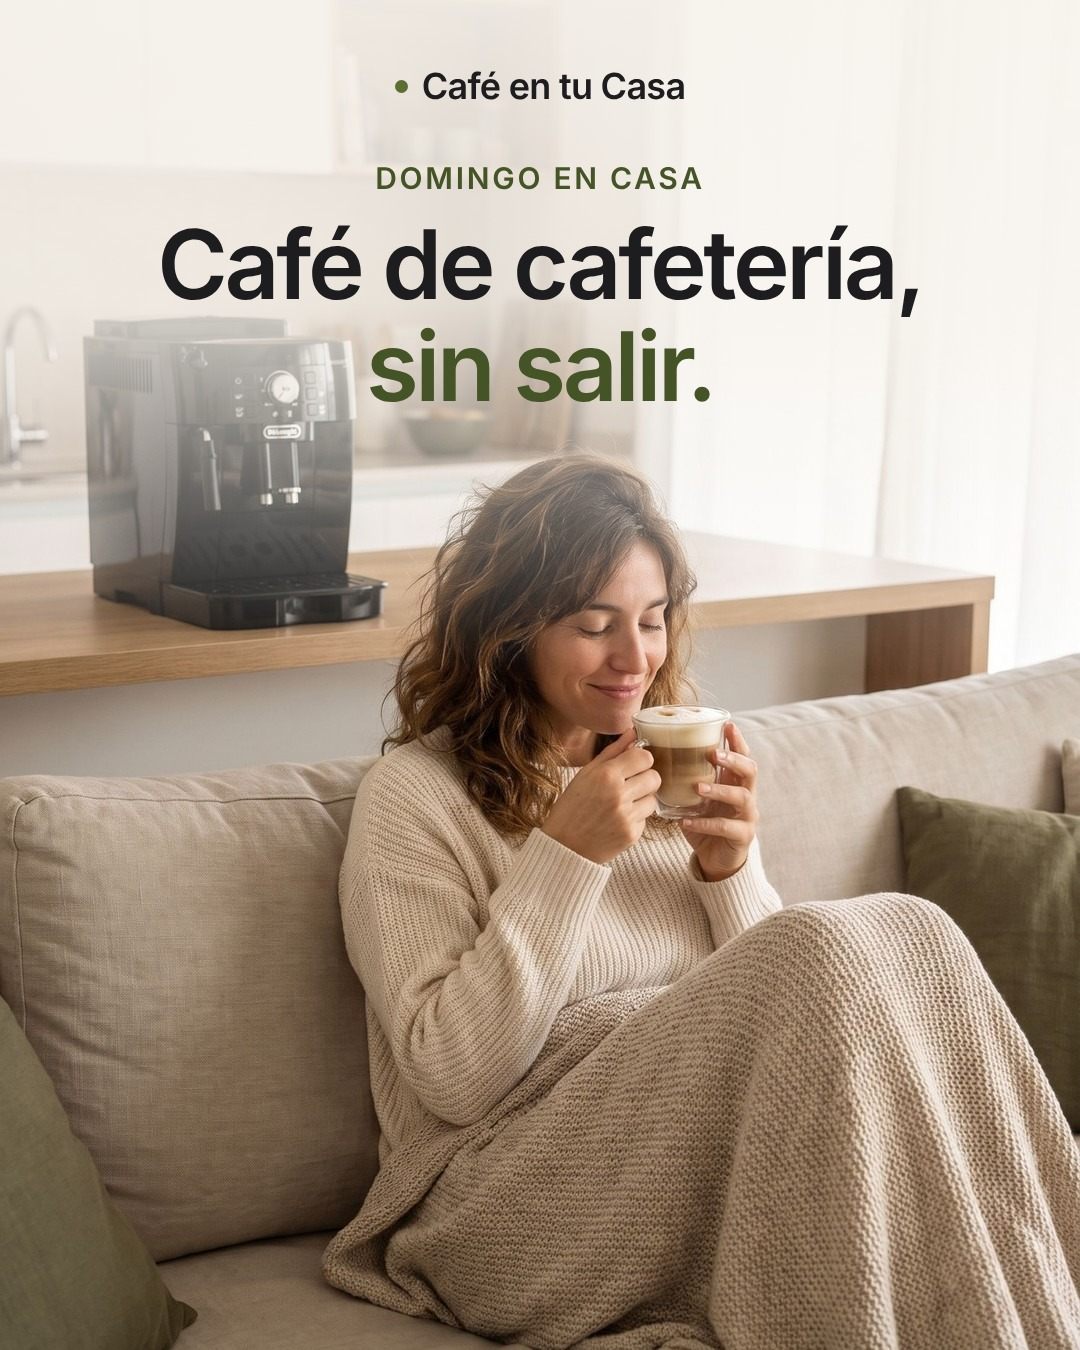
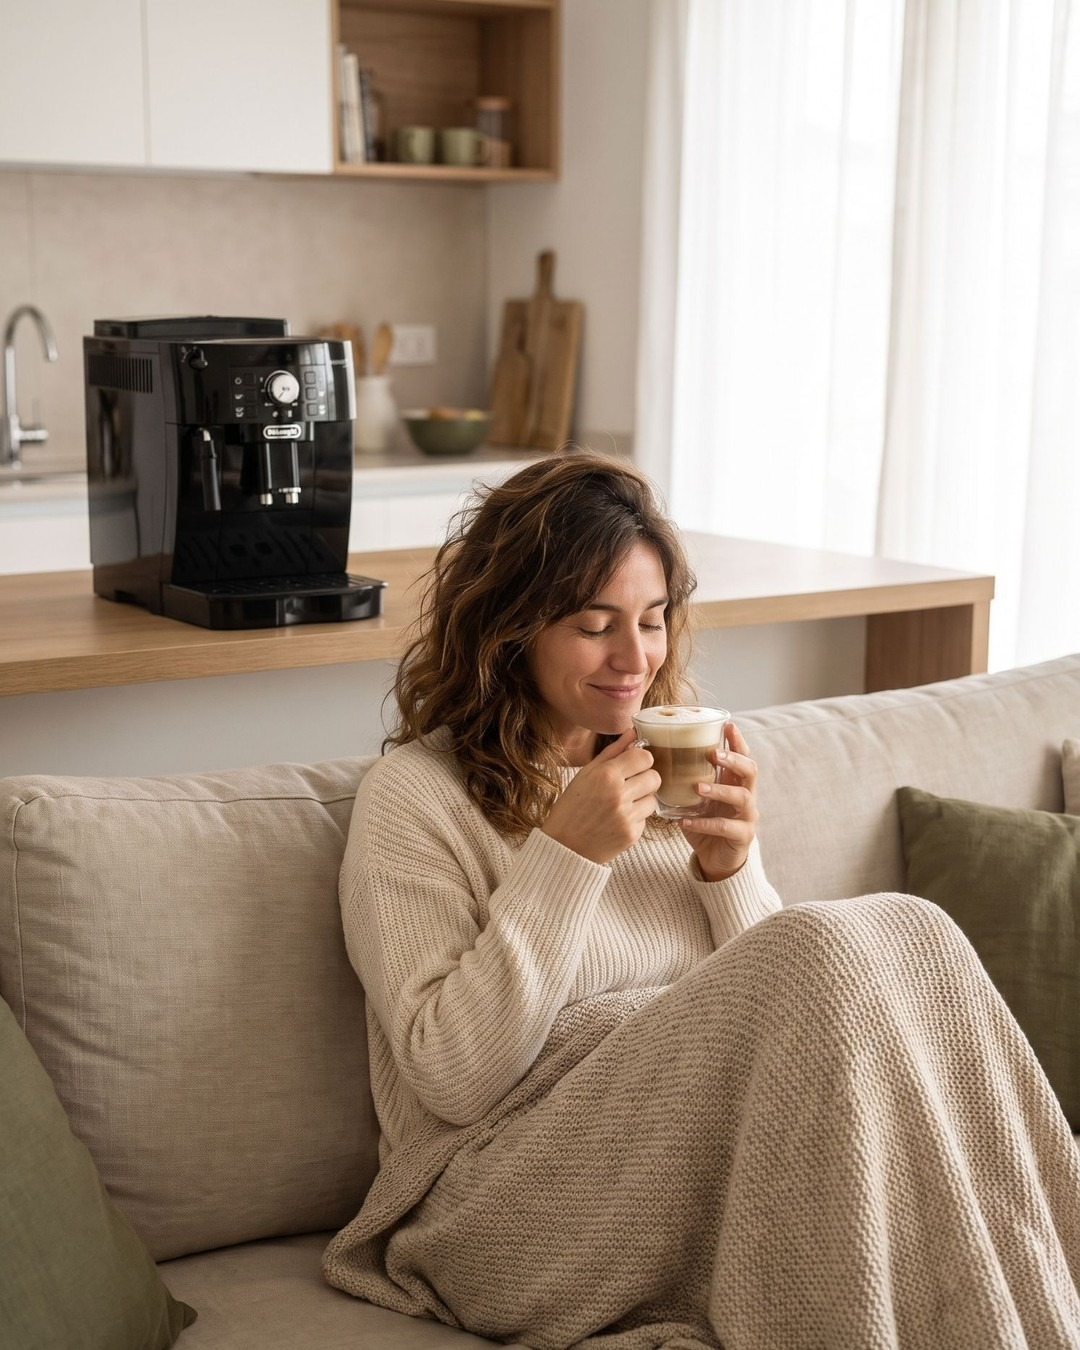
Instagram: fotos de ambiente para noviembre y diciembre (título en tarjeta de vidrio, algunas fotos sin texto)
Claude-Session: https://claude.ai/code/session_01NtW1H8RSs9Y8LB8QJzB8Hr

Changed region(s): [[0.0, 0.0, 0.8861, 0.4667], [0.7944, 0.4356, 0.8861, 0.4667]]

diff --git a/instagram/contenido.js b/instagram/contenido.js
@@ -546,10 +546,9 @@ const PIEZAS = [
       'Guardalo para comparar.\n\n' +
       '¿Vos sos de cortado o de latte?\n\n#delonghi #dedica #espresso #cafeencasa #barista',
     placas: [
-      { t: 'escena', velo: true, img: 'assets/img/escenas/feed-dedica-blanca-espumando.jpg',
+      { t: 'escena', estilo: 'tarjeta', img: 'assets/img/escenas/feed-dedica-blanca-espumando.jpg',
         ep: `${D.modelo.split(' ')[0]} · ${cm(D.medidas.ancho)} de ancho`, h: 'Poco lugar.<br><em>Mucho café.</em>' },
-      { t: 'escena', velo: true, img: 'assets/img/escenas/feed-dedica-negra-espresso.jpg',
-        ep: 'Lista en unos 40 segundos', h: 'Espresso de verdad,<br><em>en tu casa.</em>' },
+      { t: 'escena', estilo: 'limpia', img: 'assets/img/escenas/feed-dedica-negra-espresso.jpg' },
       placaPrecio(D),
       { t: 'cta', tono: 'oscuro', ep: 'Para decidir tranquilo', h: 'Guardalo para comparar.',
         sub: '¿Cortado o latte?', boton: 'Link en la bio' }
@@ -567,17 +566,88 @@ const PIEZAS = [
       'Guardalo para comparar.\n\n' +
       '¿Vos, con leche o sin leche?\n\n#delonghi #magnificas #cafeencasa #cafetera #latteart',
     placas: [
-      { t: 'escena', velo: true, img: 'assets/img/escenas/feed-magnifica-desayuno-pareja.jpg',
+      { t: 'escena', estilo: 'tarjeta', img: 'assets/img/escenas/feed-magnifica-desayuno-pareja.jpg',
         ep: M.modelo, h: 'Dos cafés,<br><em>un botón.</em>' },
-      { t: 'escena', velo: true, img: 'assets/img/escenas/feed-magnifica-latte-art.jpg',
-        ep: 'Cappuccino System', h: 'La espuma,<br><em>como en el bar.</em>' },
-      { t: 'escena', velo: true, img: 'assets/img/escenas/feed-magnifica-sillon.jpg',
-        ep: 'Domingo en casa', h: 'Café de cafetería,<br><em>sin salir.</em>' },
+      { t: 'escena', estilo: 'limpia', img: 'assets/img/escenas/feed-magnifica-latte-art.jpg' },
+      { t: 'escena', estilo: 'limpia', img: 'assets/img/escenas/feed-magnifica-sillon.jpg' },
       placaPrecio(M),
       { t: 'cta', tono: 'oscuro', ep: 'Para decidir tranquilo', h: 'Guardalo para comparar.',
         sub: '¿Con leche o sin leche?', boton: 'Link en la bio' }
     ]
-  }
+  },
+
+  /* ======================= NOVIEMBRE-DICIEMBRE — fotos de ambiente ======================= */
+  ...(() => {
+    const E = n => `assets/img/escenas/feed-${n}.jpg`;
+    const foto = n => ({ t: 'escena', estilo: 'limpia', img: E(n) });
+    const tarjeta = (n, ep, h, extra = {}) => ({ t: 'escena', estilo: 'tarjeta', img: E(n), ep, h, ...extra });
+    const cierre = sub => ({ t: 'cta', tono: 'oscuro', ep: 'Para decidir tranquilo', h: 'Guardalo para comparar.', sub, boton: 'Link en la bio' });
+    const pago = ps => ps.map(preciosCortos).join('\n\n') + '\n\n' + COMO_PAGAR + ' Envío gratis a todo el país.';
+    const texto = (gancho, cuerpo, ps, accion, pregunta, tags) =>
+      `${gancho}\n\n${cuerpo}\n\n${pago(ps)}\n\n${accion}\n\n${pregunta}\n\n${tags}`;
+    const pieza = (id, tipo, titulo, caption, placas) => ({ id, semana: 9, dia: 'Lunes', tipo, titulo, caption, placas });
+    const ENTREGA = 'Si es para regalar, consultá por WhatsApp la fecha de entrega antes de comprar.';
+    return [
+      pieza('f1118-carrusel-cual-va', 'carrusel', '¿Cuál va con tu casa?',
+        texto('¿Cuál va con tu casa? ☕',
+          `${M.modelo}: apretás un botón y muele el grano en el momento.\n${D.modelo}: ${cm(D.medidas.ancho)} de ancho, para los que disfrutan prepararlo a mano.`,
+          DISP, 'Guardalo para comparar.', `¿Botón o ritual?`, '#cafeencasa #delonghi #magnificas #dedica #cafetera'),
+        [tarjeta('magnifica-mueble', 'Dos formas de tomar café', '¿Cuál va<br><em>con tu casa?</em>'),
+         foto('magnifica-desayuno-pareja'), foto('dedica-blanca-espumando'), ...DISP.map(placaPrecio), cierre('¿Botón o ritual?')]),
+      pieza('f1120-post-magnifica-mueble', 'post', 'Magnifica S en el mueble (foto sola)',
+        texto('Un lugar en la casa para el café. ☕', `La ${P.nombre(M)}: ${cm(M.medidas.ancho)} de ancho, molinillo integrado y un botón por taza.`,
+          [M], 'Guardalo para cuando armes tu rincón del café.', '¿En la cocina o en el living?', '#delonghi #magnificas #cafeencasa #deco'),
+        [foto('magnifica-mueble')]),
+      pieza('f1123-post-dedica-ventana', 'post', 'Dedica junto a la ventana',
+        texto('Tu rincón, tu ritual. ☕', `La ${P.nombre(D)} entra en ${cm(D.medidas.ancho)} y está lista en unos 40 segundos.`,
+          [D], 'Guardalo para comparar.', '¿Café en la ventana o en la mesa?', '#delonghi #dedica #cafeencasa #espresso'),
+        [tarjeta('dedica-ventana', `Dedica · ${cm(D.medidas.ancho)} de ancho`, 'Tu rincón,<br><em>tu ritual.</em>')]),
+      pieza('f1127-carrusel-black-friday', 'carrusel', 'Black Friday',
+        texto('¿Esperabas el Black Friday? ☕', `Acá el ${OFF}% OFF por transferencia es todos los días. Y si preferís financiar, tenés cuotas sin interés en Mercado Libre.`,
+          DISP, 'Guardalo para comparar.', '¿Vos qué elegís: transferencia o cuotas?', '#blackfriday #cafeencasa #delonghi #cafetera'),
+        [tarjeta('magnifica-latte-art', 'Black Friday', `${OFF}% OFF,<br><em>todos los días.</em>`, { pildora: 'Pagando por transferencia o efectivo' }),
+         foto('dedica-negra-espresso'), ...DISP.map(placaPrecio), cierre('¿Transferencia o cuotas?')]),
+      pieza('f1130-post-magnifica-estudio', 'post', 'Magnifica S, último sprint del año',
+        texto('Último sprint del año. ☕', `Para las tardes largas de estudio o de trabajo, la ${P.nombre(M)} muele el grano en el momento y te deja el espresso con un botón.`,
+          [M], 'Guardalo para comparar.', '¿Vos estudiás o trabajás con café?', '#delonghi #magnificas #cafeencasa #estudio'),
+        [tarjeta('magnifica-estudio', 'Fin de año', 'Último sprint,<br><em>buen café.</em>')]),
+
+      pieza('f1201-carrusel-regalo-navidad', 'carrusel', 'Regalo de Navidad',
+        texto('El regalo que se usa todos los días. 🎄', `Una cafetera para la casa: ${M.modelo} si quieren un botón, ${D.modelo} si les gusta prepararlo.\n\n${ENTREGA}`,
+          DISP, 'Mandáselo a quien todavía no sabe qué regalar.', '¿Para quién sería: para vos o para regalar?', '#navidad #regalodenavidad #cafeencasa #delonghi'),
+        [tarjeta('magnifica-desayuno-familia', 'Navidad', 'El regalo que se usa<br><em>todos los días.</em>'),
+         foto('magnifica-sillon'), foto('dedica-ventana'), ...DISP.map(placaPrecio), cierre('¿Para vos o para regalar?')]),
+      pieza('f1204-post-dedica-espresso', 'post', 'Dedica negra, espresso (foto sola)',
+        texto('Espresso de verdad, en tu casa. ☕', `La ${P.nombre(D)}: portafiltro, 15 bares y lista en unos 40 segundos.`,
+          [D], 'Guardalo para comparar.', '¿Simple o doble?', '#delonghi #dedica #espresso #cafeencasa'),
+        [foto('dedica-negra-espresso')]),
+      pieza('f1209-post-magnifica-home-office', 'post', 'Magnifica S, home office',
+        texto('La última semana de laburo, con buen café. ☕', `La ${P.nombre(M)} lo hace con un botón, entre reunión y reunión.`,
+          [M], 'Guardalo para tu próximo día de home office.', '¿Cuántos cafés tomás en un día de trabajo: uno o más de dos?', '#homeoffice #delonghi #magnificas #cafeencasa'),
+        [tarjeta('magnifica-home-office', 'Home office', 'Entre reunión<br><em>y reunión.</em>')]),
+      pieza('f1211-post-dedica-espumando', 'post', 'Dedica blanca espumando (foto sola)',
+        texto('La espuma, en casa. ☕', `Con el Cappuccino System de la ${P.nombre(D)} hacés la leche para el cortado, el cappuccino o el latte.`,
+          [D], 'Guardalo para comparar.', '¿Cortado o latte?', '#delonghi #dedica #cappuccino #cafeencasa'),
+        [foto('dedica-blanca-espumando')]),
+      pieza('f1215-carrusel-antes-de-navidad', 'carrusel', 'Antes de Navidad',
+        texto('Faltan 10 días para Navidad. 🎄', `Si la querés para regalar, escribinos por WhatsApp y te confirmamos la fecha de entrega antes de comprar.`,
+          DISP, 'Mandáselo a quien está armando los regalos.', '¿Ya tenés los regalos o vas a último momento?', '#navidad #regalodenavidad #cafeencasa #delonghi'),
+        [tarjeta('magnifica-desayuno', 'Faltan 10 días', 'Regalá café<br><em>de cafetería.</em>', { pildora: 'Consultá la fecha de entrega por WhatsApp' }),
+         foto('magnifica-latte-art'), ...DISP.map(placaPrecio), cierre('¿Para vos o para regalar?')]),
+      pieza('f1218-post-magnifica-sillon', 'post', 'Magnifica S, sillón (foto sola)',
+        texto('Regalátela. ☕', `Después de un año largo, el café de cafetería en tu casa. La ${P.nombre(M)} lo hace con un botón.`,
+          [M], 'Guardalo para comparar.', '¿Con leche o sin leche?', '#delonghi #magnificas #cafeencasa #regalo'),
+        [foto('magnifica-sillon')]),
+      pieza('f1221-post-dedica-ventana-navidad', 'post', 'Dedica, última semana para regalar',
+        texto('Última semana para regalar. 🎄', `La ${P.nombre(D)}: ${cm(D.medidas.ancho)} de ancho y todo el ritual del espresso.\n\n${ENTREGA}`,
+          [D], 'Mandáselo a quien te pidió ideas de regalo.', '¿Para vos o para regalar?', '#navidad #regalodenavidad #delonghi #dedica'),
+        [tarjeta('dedica-blanca-espumando', 'Última semana', 'El regalo<br><em>más rico.</em>')]),
+      pieza('f1229-post-magnifica-noche', 'post', 'Magnifica S, fin de año',
+        texto('Para arrancar el 2027 con buen café. ☕', `La ${P.nombre(M)} muele el grano en el momento: el café de cafetería, todos los días del año que viene.`,
+          [M], 'Guardalo para comparar.', '¿Cuál es tu propósito con el café para el año que viene?', '#añonuevo #delonghi #magnificas #cafeencasa'),
+        [tarjeta('magnifica-estudio-noche', 'Fin de año', 'El 2027 arranca<br><em>con buen café.</em>')])
+    ];
+  })()
 ];
 
 /* Para generar.ps1 (corre con Node): lista "id n ancho alto" */

diff --git a/instagram/pieza.css b/instagram/pieza.css
@@ -119,8 +119,20 @@ h2 { font-size: 72px; font-weight: 600; line-height: 1.07; letter-spacing: -.03e
 .escena.oscuro .ep { color: #d8eaa8; }
 .escena.oscuro h1 em { color: #d8eaa8; }
 
-/* escena en el feed (4:5): no hay "aire" arriba como en las historias, así que un degradé
-   suave del color de la pared, solo detrás del texto, hace que el título se lea sin tapar la foto */
-.escena.velo::before { content: ''; position: absolute; inset: 0 0 auto 0; height: 50%; z-index: 1;
-  background: linear-gradient(to bottom, rgba(247, 243, 237, .94) 0%, rgba(247, 243, 237, .82) 45%, rgba(247, 243, 237, 0) 100%); }
-.escena.velo > .marca, .escena.velo > main { z-index: 2; }
+/* escena en el feed (4:5): el título va en una tarjeta de vidrio esmerilado, chica y alineada
+   a la izquierda, para que se lea sin tapar la foto. "limpia" = foto sola, sin nada de texto. */
+.escena.tarjeta { align-items: flex-start; text-align: left; padding: 56px 56px; }
+.escena.tarjeta > .marca { font-size: 26px; padding: 14px 24px; border-radius: 980px;
+  background: rgba(250, 247, 242, .62); -webkit-backdrop-filter: blur(16px); backdrop-filter: blur(16px); }
+.escena.tarjeta > main { flex: none; width: auto; max-width: 78%; align-items: flex-start; margin-top: 22px;
+  padding: 36px 44px 40px; border-radius: 40px;
+  background: rgba(250, 247, 242, .66); -webkit-backdrop-filter: blur(22px) saturate(1.15); backdrop-filter: blur(22px) saturate(1.15);
+  box-shadow: 0 18px 50px rgba(40, 30, 20, .12); }
+.escena.tarjeta .ep { font-size: 24px; margin-bottom: 14px; }
+.escena.tarjeta h1 { font-size: 74px; line-height: 1.04; text-wrap: balance; }
+.escena.tarjeta .precio { margin-top: 22px; font-size: 34px; }
+.escena.tarjeta .cuotas { font-size: 26px; }
+.escena.tarjeta .pie { display: none; }
+.escena.tarjeta .pildora { margin-top: 22px; font-size: 24px; padding: 14px 28px; }
+.escena.abajo > main { margin-top: auto; }
+.escena.limpia > .marca, .escena.limpia > main, .escena.limpia .pie { display: none; }

diff --git a/instagram/pieza.js b/instagram/pieza.js
@@ -25,7 +25,7 @@ const CUERPO = {
   cta:     s => `${ep(s.ep)}<h1>${s.h}</h1>${sub(s.sub)}<p class="boton">${s.boton}</p>`,
   // foto de ambiente a sangre: el texto arriba, sobre la parte limpia de la foto
   escena:  s => `${ep(s.ep)}<h1 class="${s.grande ? 'grande' : ''}">${s.h}</h1>${s.precio ? `<p class="precio"><b>${s.precio}</b> ${s.nota}</p>` : ''}${
-             s.cuotas ? `<p class="cuotas">${s.cuotas}</p>` : ''}`
+             s.cuotas ? `<p class="cuotas">${s.cuotas}</p>` : ''}${pil(s.pildora)}`
 };
 
 /** Una placa entera: el lienzo con la marca, el cuerpo y los puntitos del carrusel. */
@@ -37,6 +37,6 @@ function placaHTML(pieza, n) {
     : '';
   const fondo = s.t === 'escena'
     ? `<img class="fondo" src="../${s.img}" alt="">` : '';
-  return `<div class="lienzo ${vertical ? 'vertical' : ''} ${s.tono || ''} ${s.t === 'escena' ? 'escena' : ''} ${s.velo ? 'velo' : ''}">${fondo}
+  return `<div class="lienzo ${vertical ? 'vertical' : ''} ${s.tono || ''} ${s.t === 'escena' ? 'escena' : ''} ${s.estilo || ''}">${fondo}
     <div class="marca"><i></i> Café en tu Casa</div><main${s.bajar ? ` style="padding-top:${s.bajar}px"` : ''}>${CUERPO[s.t](s)}</main>${puntos}</div>`;
 }
